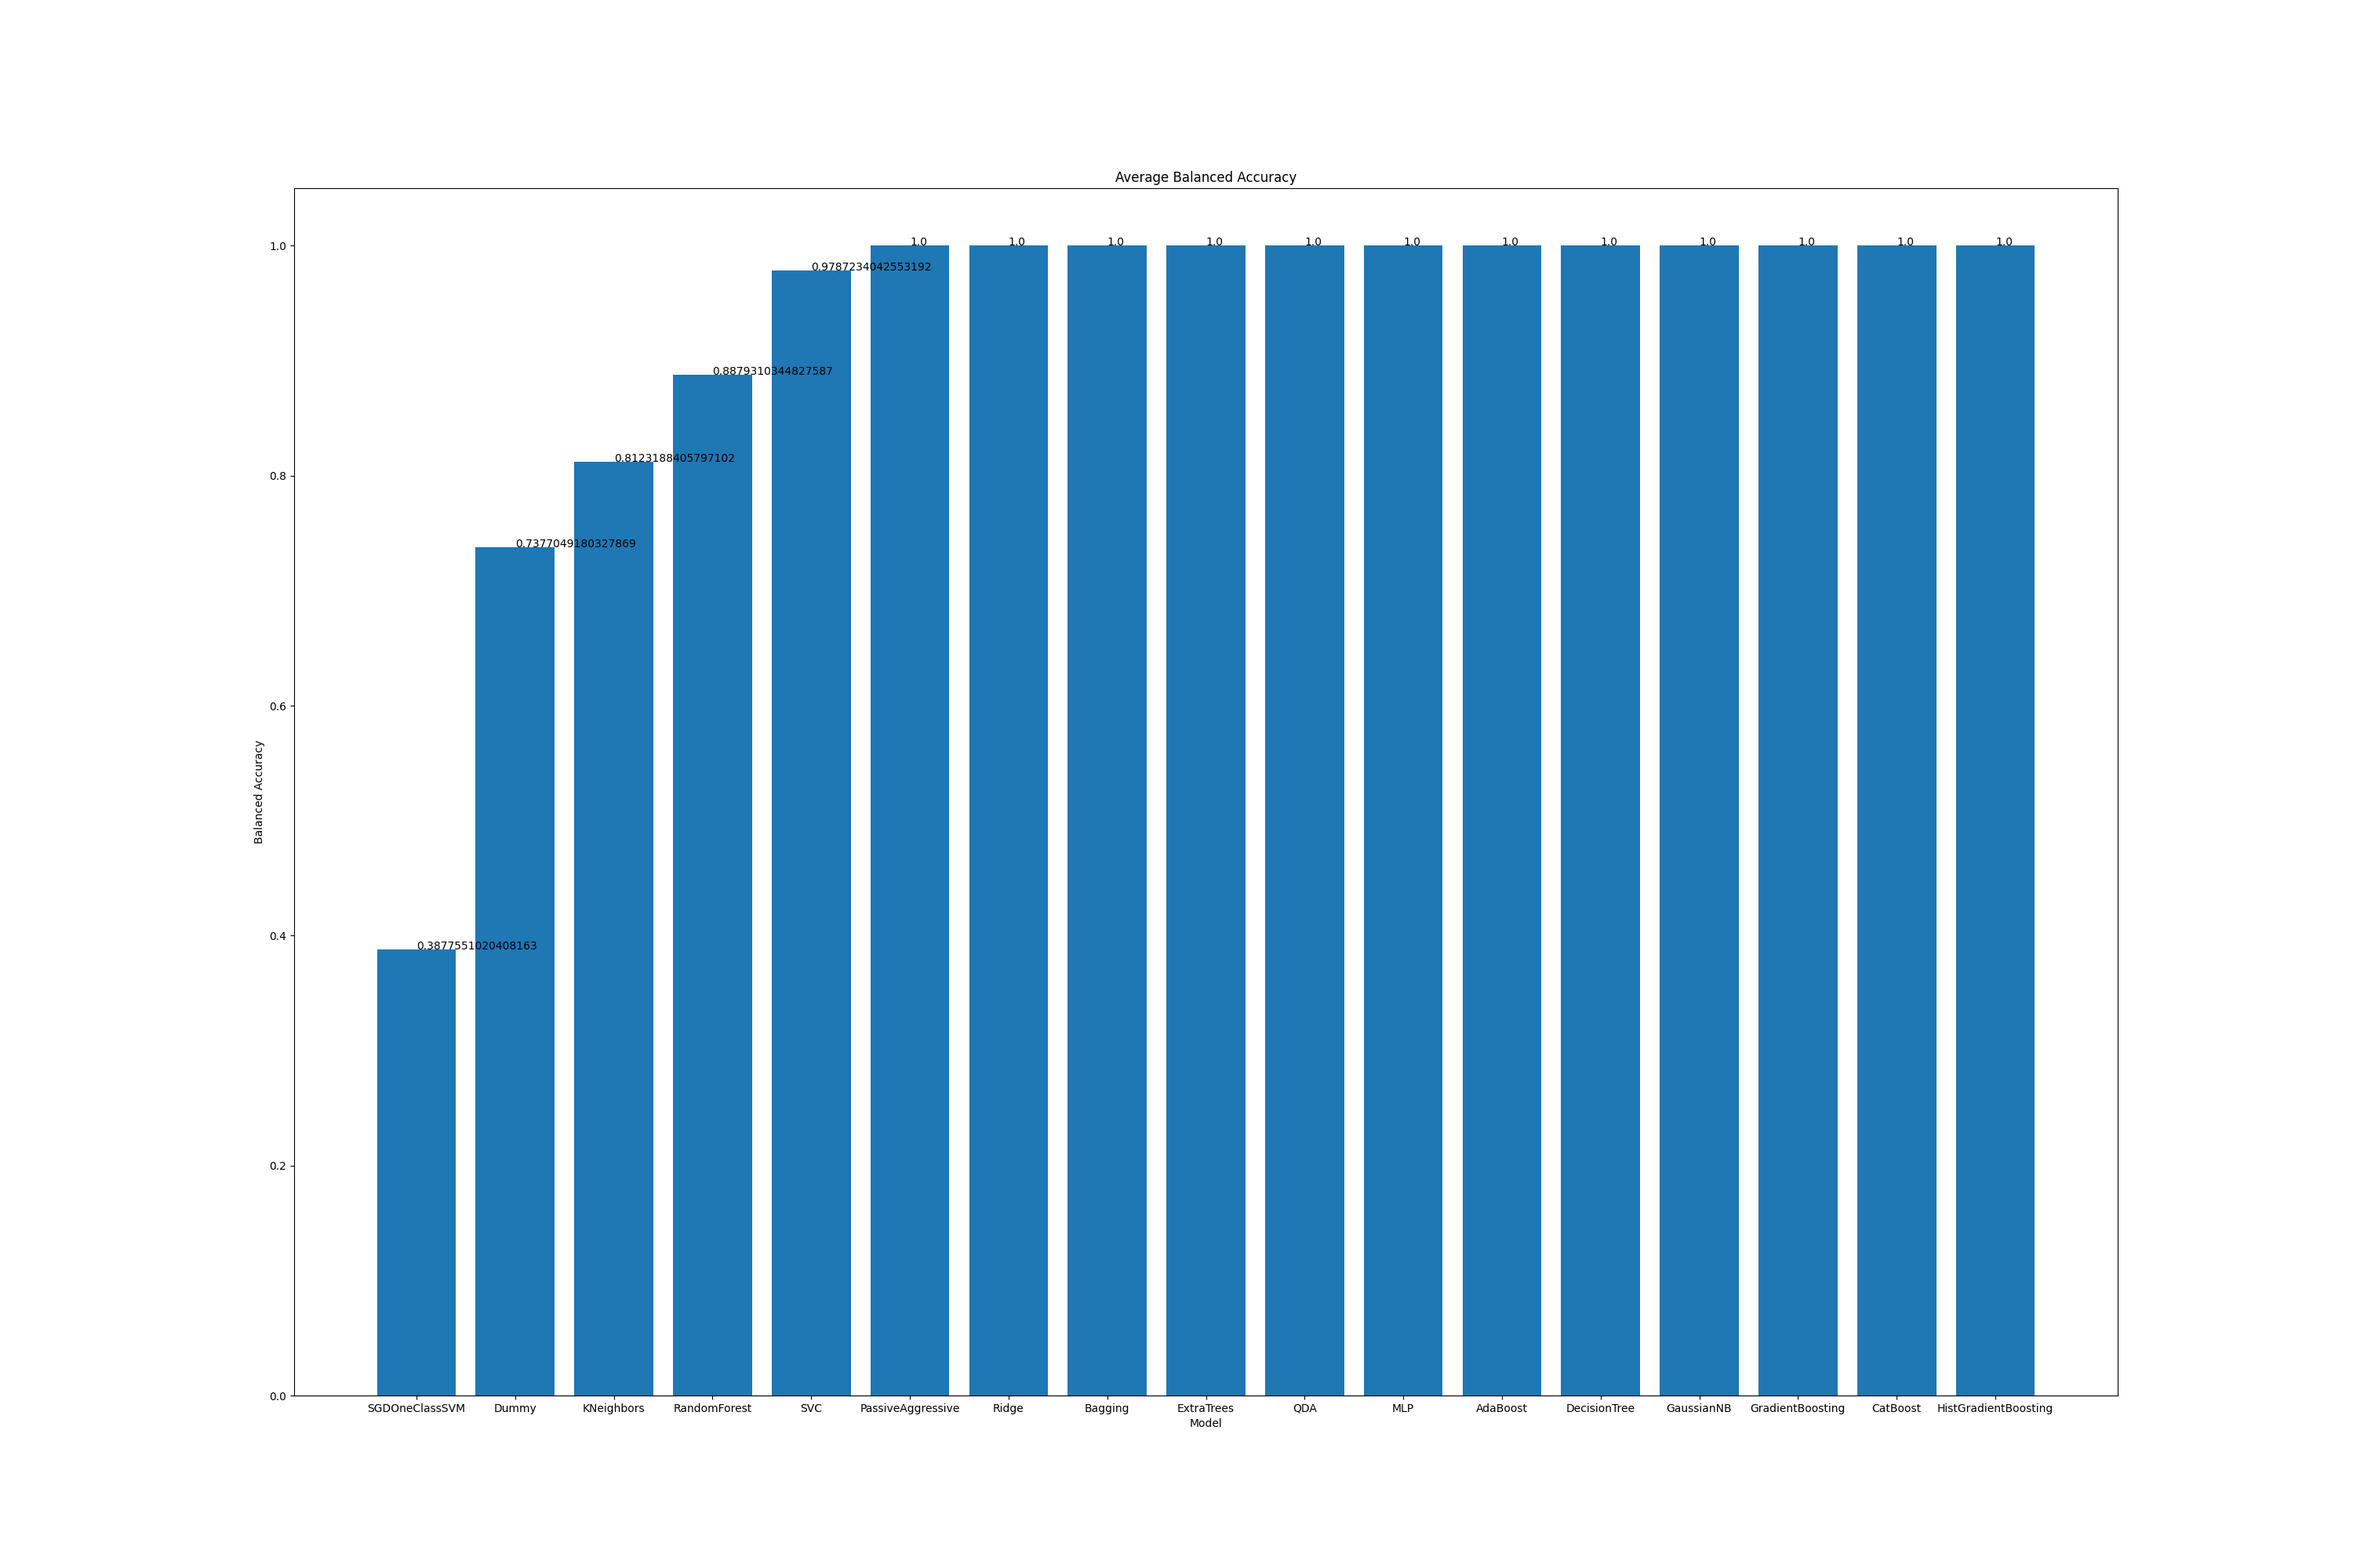
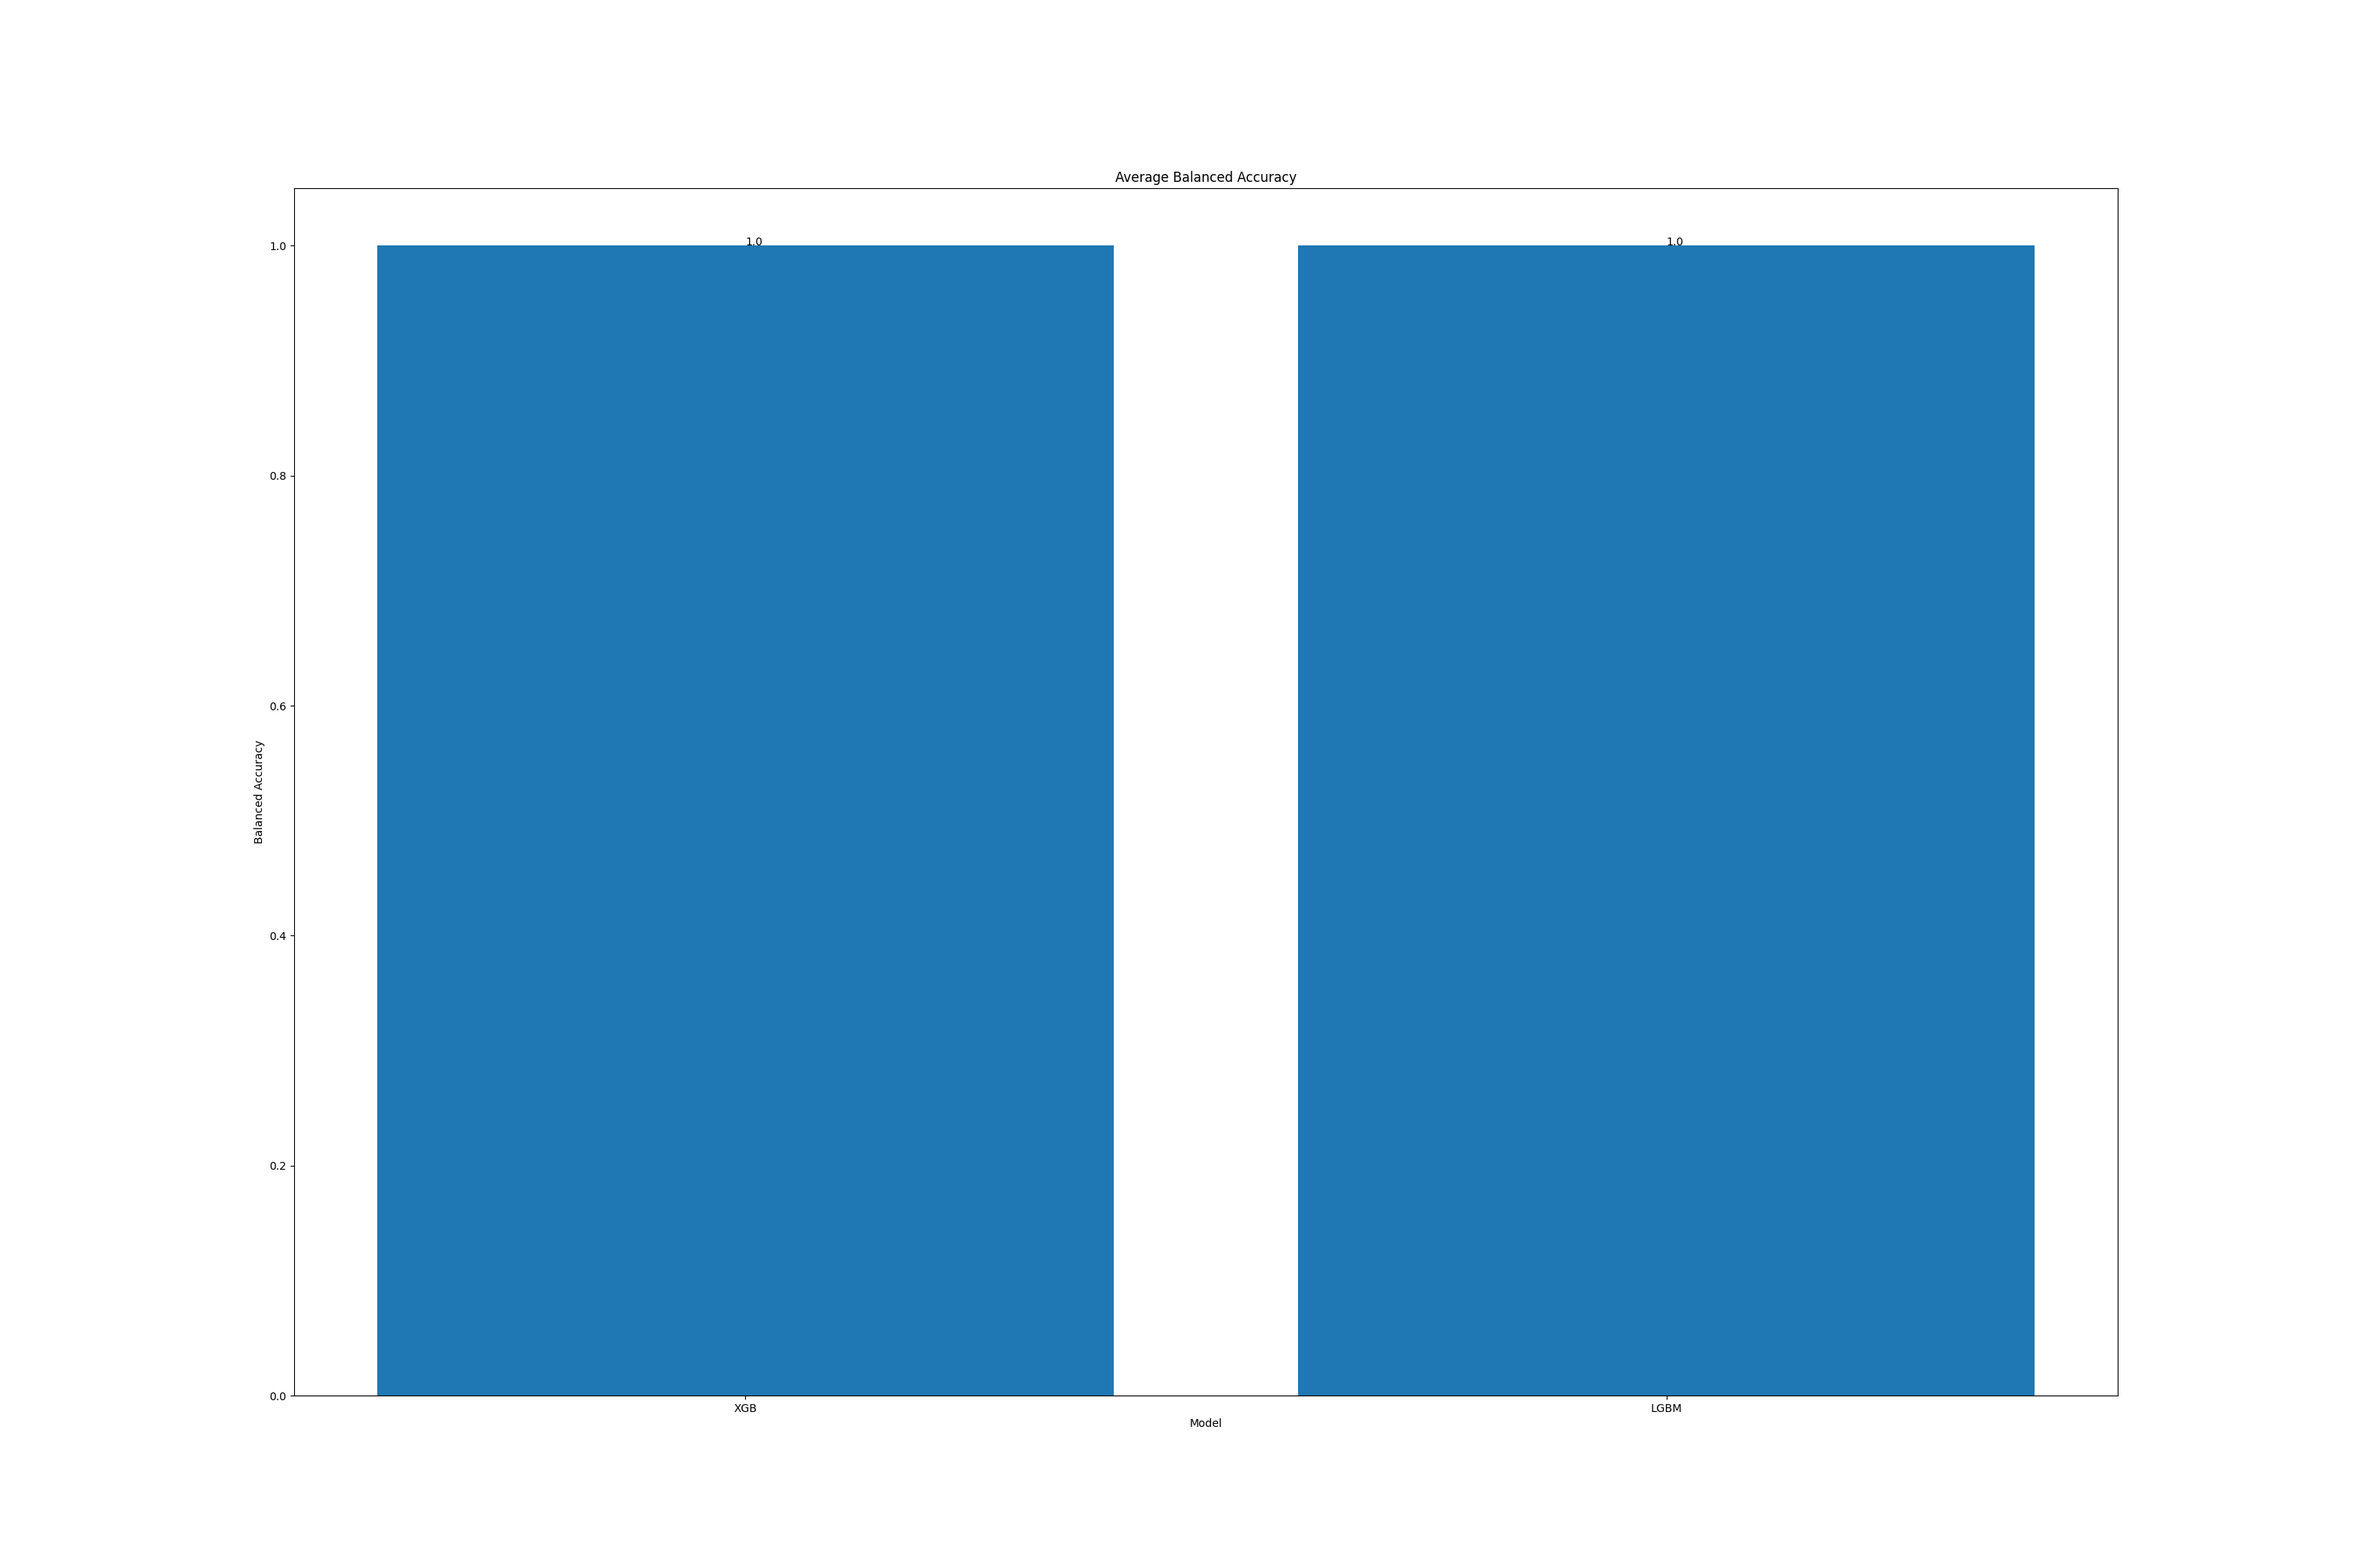
add 2 more models

Changed region(s): [[0.403, 0.155, 0.62, 0.899], [0.651, 0.155, 0.837, 0.899], [0.155, 0.155, 0.372, 0.899]]

diff --git a/ptf.py b/ptf.py
@@ -34,6 +34,9 @@ from sklearn.discriminant_analysis import QuadraticDiscriminantAnalysis
 from catboost import CatBoostClassifier
 from sklearn.linear_model import RidgeClassifier, PassiveAggressiveClassifier, SGDOneClassSVM
 from sklearn.dummy import DummyClassifier
+from xgboost import XGBClassifier
+from lightgbm import LGBMClassifier
+
 
 # Metrics
 from sklearn.metrics import accuracy_score, jaccard_score, f1_score, balanced_accuracy_score
@@ -66,6 +69,8 @@ model_options = {
     'SGDOneClassSVM': SGDOneClassSVM(),
     'Dummy': DummyClassifier(),
     'HistGradientBoosting': HistGradientBoostingClassifier(),
+    'XGB': XGBClassifier(),
+    'LGBM': LGBMClassifier(verbose=-1) 
 }
 
 model_list_str = ''
